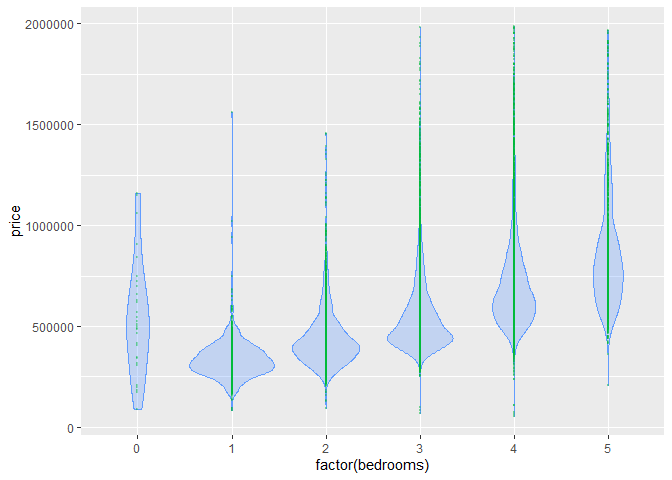
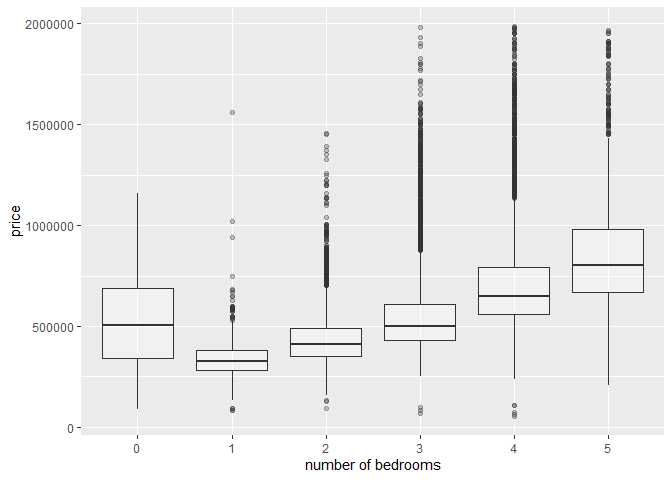
Update EDA with time series analysis

diff --git a/House price project/House_Price.md b/House price project/House_Price.md
@@ -184,21 +184,71 @@ Another interesting graphic is price against number of bedrooms.
 ``` r
 #Price against bedrooms
 ggplot(df, aes(x = factor(bedrooms), y = price)) + 
-  geom_violin(color = "#619CFF", fill = "#619CFF", alpha = 0.3) + 
-  geom_point(color = "#00BA38", alpha = 0.3, size = 0.5)
+  geom_boxplot(alpha = 0.3) +
+  labs(x = "number of bedrooms")
 ```
 
 ![](House_Price_files/figure-gfm/unnamed-chunk-10-1.png)<!-- -->
+
+Another important graphic is the correlation heatmap. It shows the
+correlation between features, i.e. we need to test price and bedrooms
+relationship with each other.
+
+``` r
+#Create a correlation matrix
+corr_df <- df %>% select(c("price", "bedrooms")) %>% cor()
+corr_df
+```
+
+    ##              price  bedrooms
+    ## price    1.0000000 0.5326027
+    ## bedrooms 0.5326027 1.0000000
 
 ``` r
 #Create month and year columns
 df$year <- year(df$datesold)
 df$month <- month(df$datesold, label = TRUE)
 
+#Plot all sells per month and year
 ggplot(df, aes(x = month, y = price)) +
   geom_point(aes(color = factor(year))) + 
   facet_wrap(~year) +
-  theme(axis.text.x = element_text(angle = 90))
+  theme(axis.text.x = element_text(angle = 90)) +
+  scale_color_discrete(name = "year")
 ```
 
-![](House_Price_files/figure-gfm/unnamed-chunk-11-1.png)<!-- -->
+![](House_Price_files/figure-gfm/unnamed-chunk-12-1.png)<!-- -->
+
+``` r
+#Reshape data by year and month and calculate the price average
+df_time <- df %>% group_by(year, month) %>% summarize(medPrice = median(price))
+```
+
+    ## `summarise()` has grouped output by 'year'. You can override using the
+    ## `.groups` argument.
+
+``` r
+#Plot price evolution per month
+ggplot(df_time, aes(x = month, y = medPrice)) +
+  geom_line(aes(color = factor(year), group = year)) +
+  scale_color_discrete(name = "year")
+```
+
+![](House_Price_files/figure-gfm/unnamed-chunk-13-1.png)<!-- -->
+
+``` r
+#Reshape data by year
+df_time <- df %>% group_by(year, postcode) %>% summarize(medPrice = median(price))
+```
+
+    ## `summarise()` has grouped output by 'year'. You can override using the
+    ## `.groups` argument.
+
+``` r
+ggplot(df_time, aes(x = year, y = medPrice)) +
+  geom_line(aes(color = postcode))
+```
+
+![](House_Price_files/figure-gfm/unnamed-chunk-14-1.png)<!-- -->
+
+### Modeling
